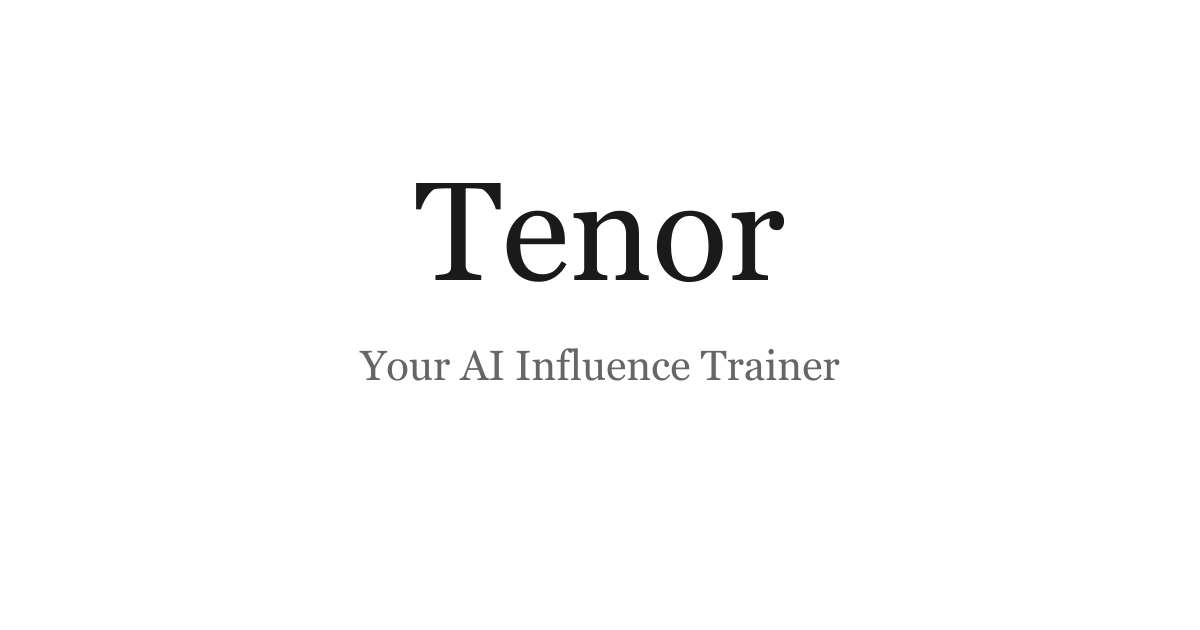
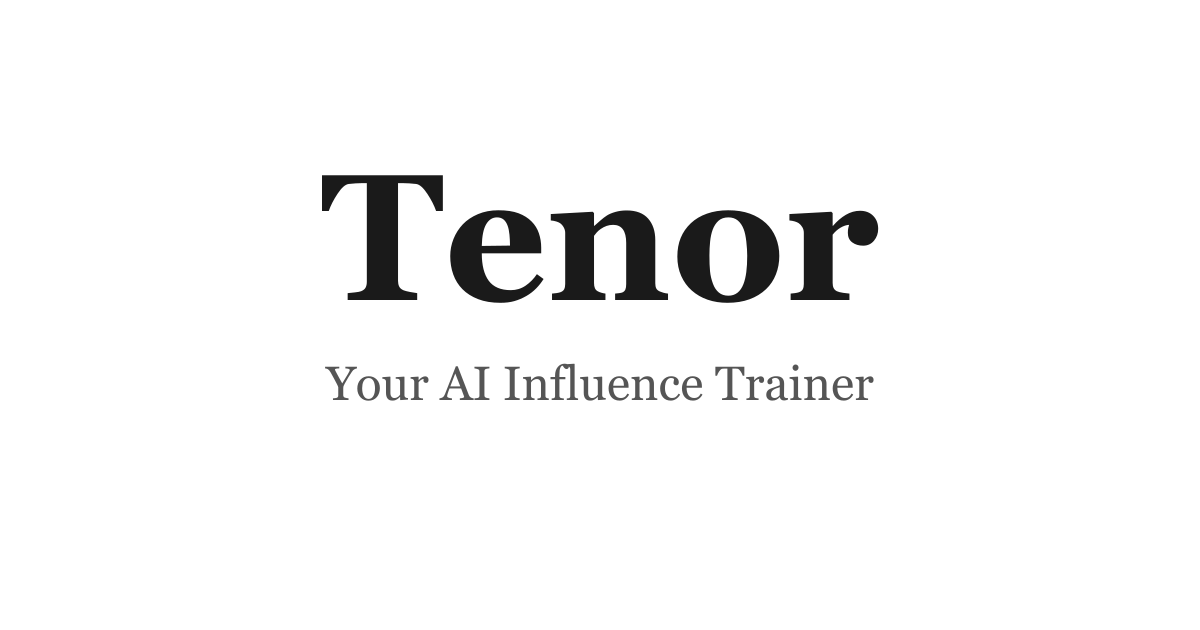
Make OG image text bigger and bolder

Changed region(s): [[0.2467, 0.2714, 0.74, 0.4825], [0.2775, 0.5429, 0.74, 0.6333]]

diff --git a/scripts/generate-icons.js b/scripts/generate-icons.js
@@ -23,8 +23,8 @@ const splashSvg = `
 const ogImageSvg = `
 <svg width="1200" height="630" viewBox="0 0 1200 630" xmlns="http://www.w3.org/2000/svg">
   <rect width="1200" height="630" fill="white"/>
-  <text x="600" y="280" text-anchor="middle" font-family="Georgia, 'Times New Roman', serif" font-size="140" font-weight="400" fill="#1a1a1a">Tenor</text>
-  <text x="600" y="380" text-anchor="middle" font-family="Georgia, 'Times New Roman', serif" font-size="42" fill="#666666">Your AI Influence Trainer</text>
+  <text x="600" y="300" text-anchor="middle" font-family="Georgia, 'Times New Roman', serif" font-size="180" font-weight="700" fill="#1a1a1a">Tenor</text>
+  <text x="600" y="400" text-anchor="middle" font-family="Georgia, 'Times New Roman', serif" font-size="48" font-weight="500" fill="#555555">Your AI Influence Trainer</text>
 </svg>
 `;
 
